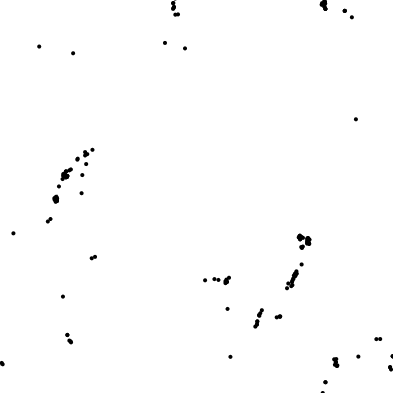
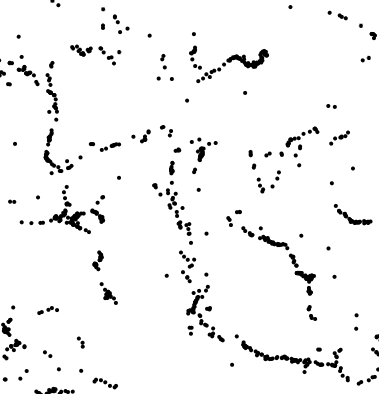
Increasing the volume of particles in the screen (and picture)

diff --git a/flowField.js b/flowField.js
@@ -18,7 +18,7 @@ function setup() {
 
   flowField = new Array(cols * rows);
 
-  for(var i = 0; i< 200; i++){
+  for(var i = 0; i< 1000; i++){
     particle[i] = new Particle();
   }
 }
